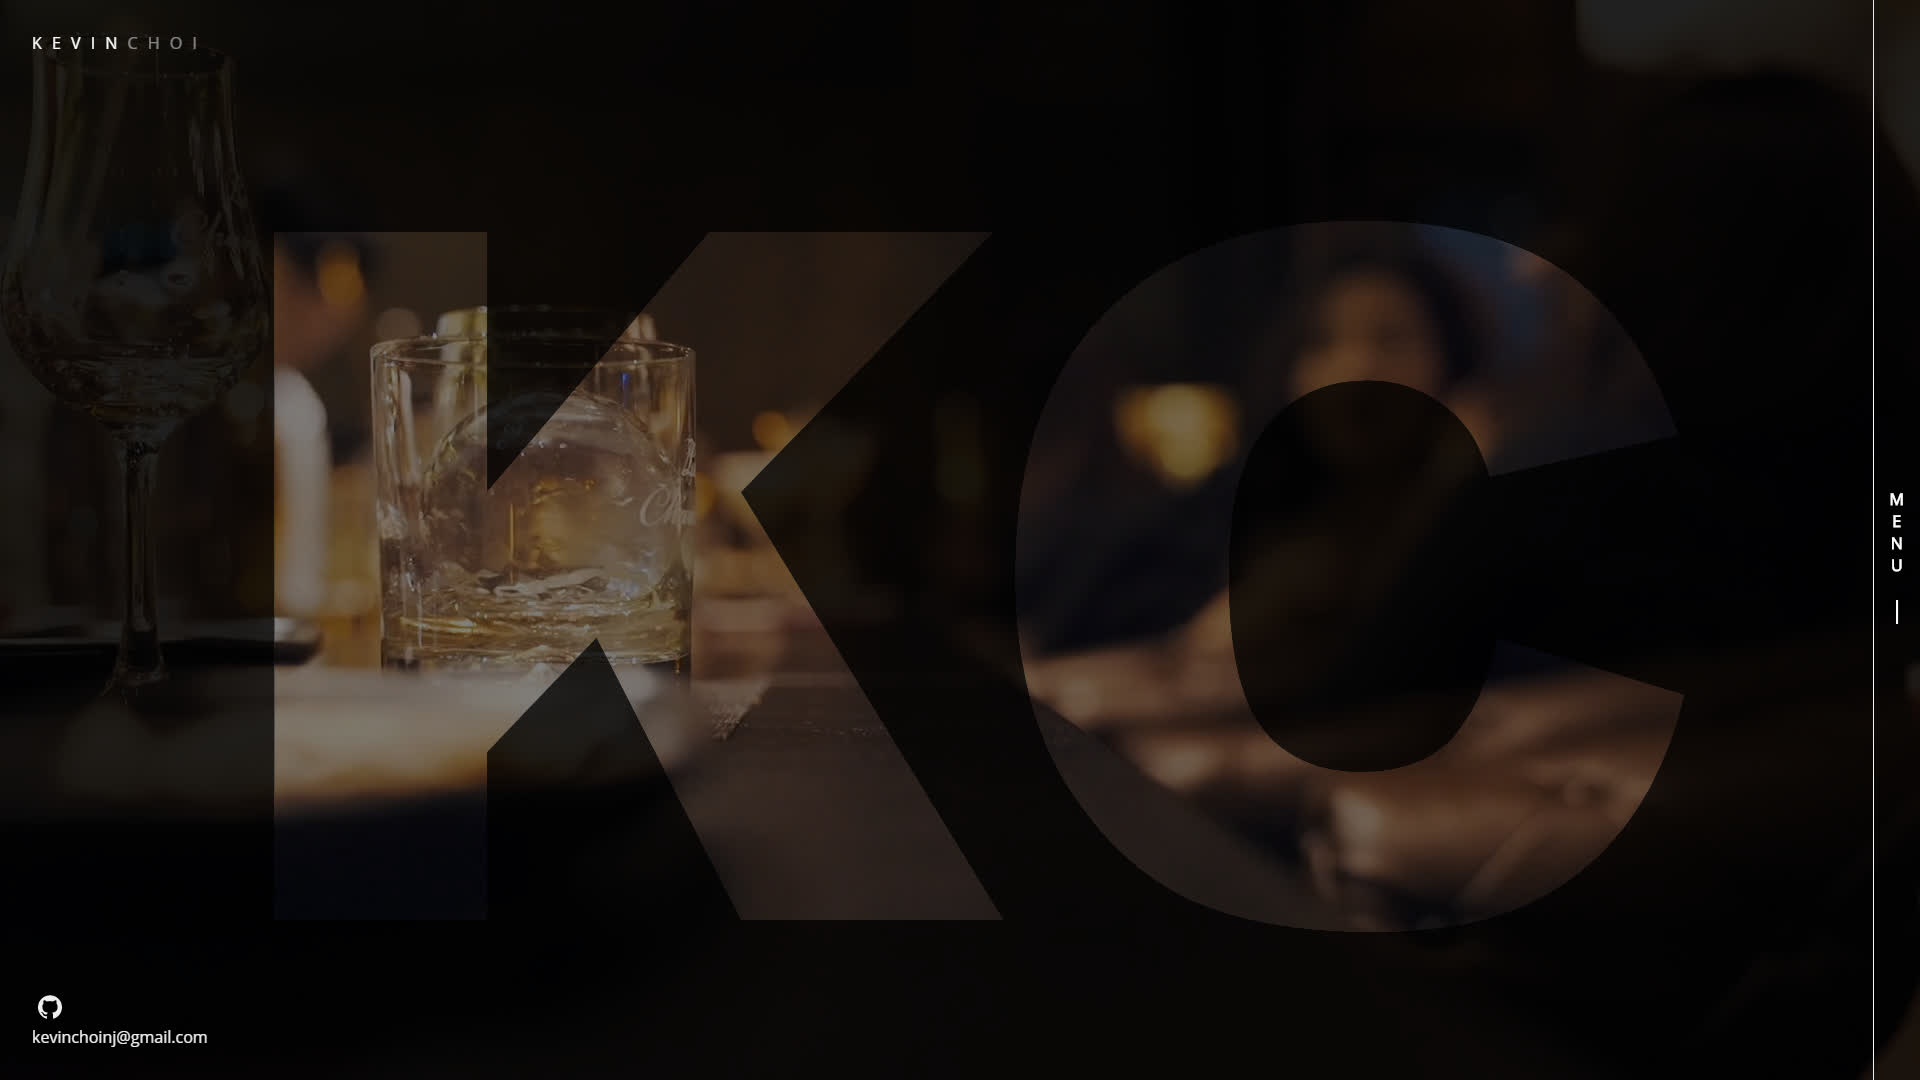
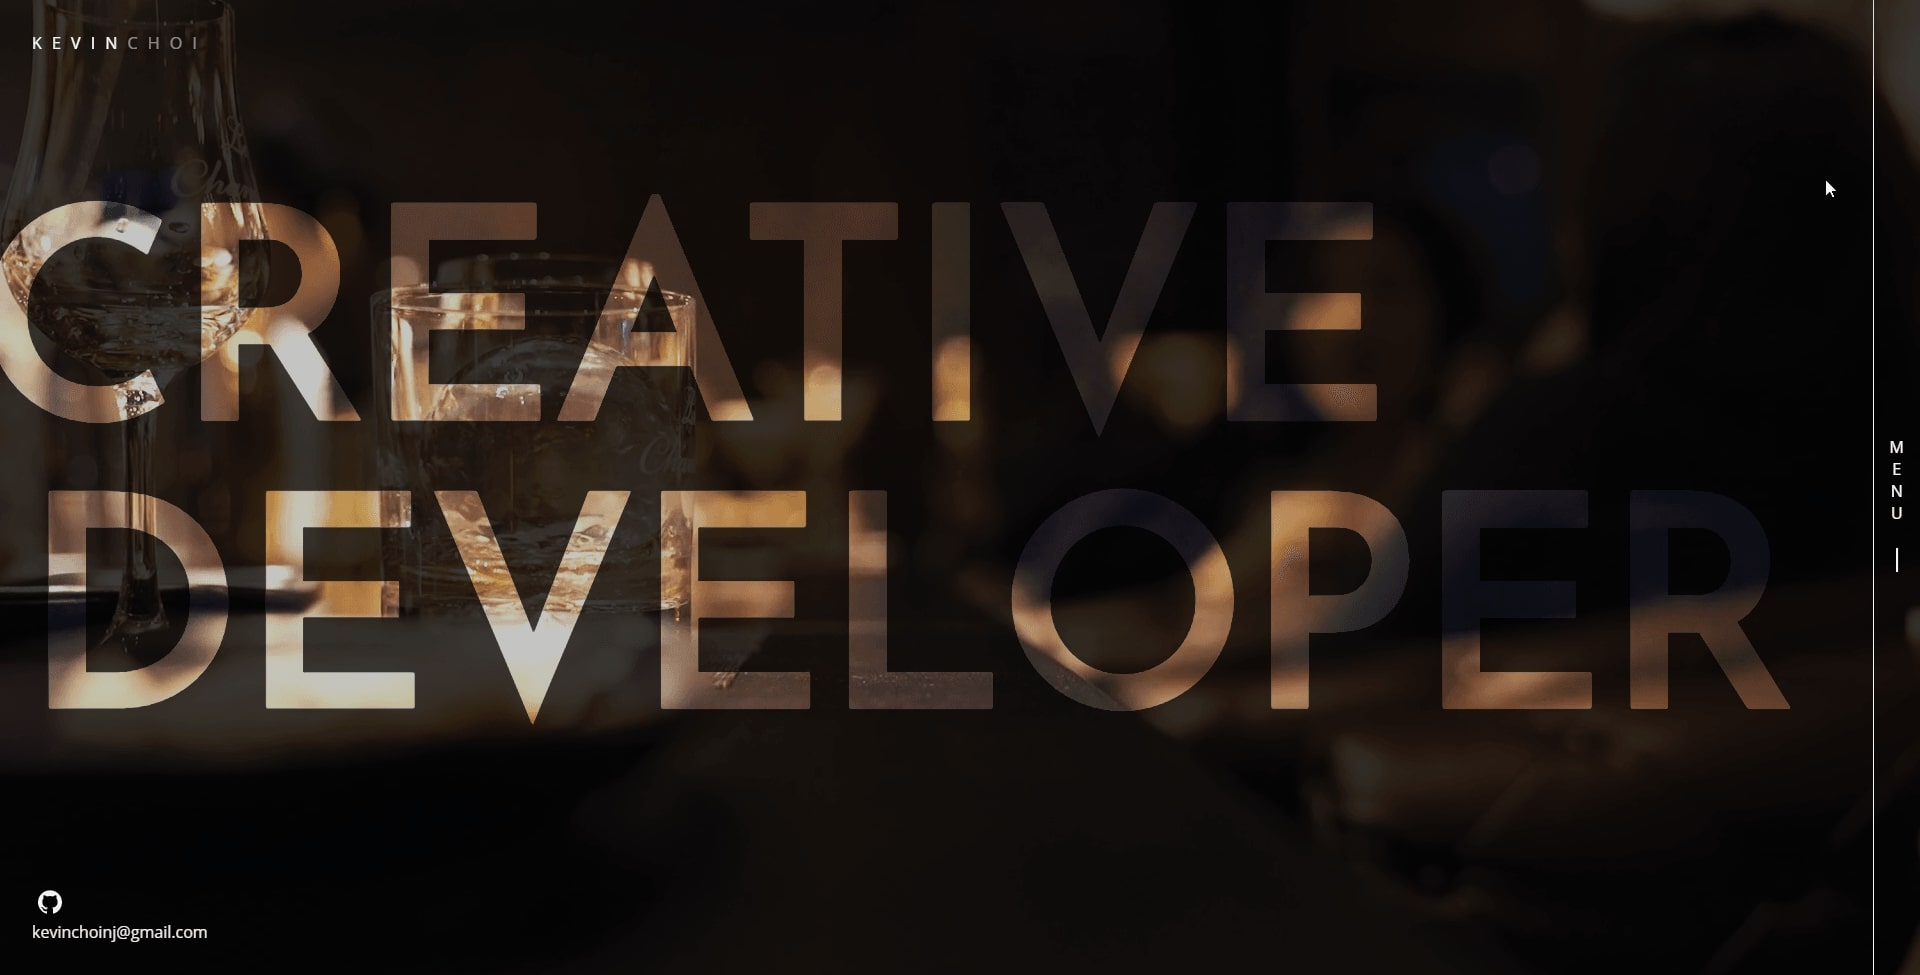
handle transitions between homepage and not-homepage

diff --git a/client/src/components/home/BackgroundMouse.js b/client/src/components/home/BackgroundMouse.js
@@ -2,20 +2,17 @@ import React, {useMemo} from 'react';
 import {connect} from 'react-redux';
 import styled from 'styled-components';
 import {
-  selectMenuDisplay,
-  selectMenuHover,
   selectCurrentMousePosition,
 } from 'reducers';
 
 const StyledWrapper = styled.div`
+  z-index: -1;
   width: 100%;
   height: 100%;
   overflow: hidden;
   position: fixed;
   left: 0px;
   transition: .2s ease;
-  pointer-events: ${props => props.menuDisplay ? 'none' : 'auto'};
-  opacity: ${props => (props.hoverOption && props.menuDisplay) ? 0 : 1};
   :after {
     content: '';
     position: fixed;
@@ -53,24 +50,6 @@ const StyledVideo = styled(Video)`
   background-size: cover;
   background-position: center center;
 `;
-/*
-const StyledText = styled.div`
-  display: flex;
-  justify-content: center;
-  align-items: center;
-  font-family: 'Open Sans', sans-serif !important;
-  font-weight: 800;
-  font-style: normal;
-  text-align: center;
-  font-size: 50vw;
-  content: 'KC';
-  height: 100%;
-  width: 100%;
-  background: rgba(0,0,0, .75);
-  color: #fff;
-  mix-blend-mode: darken;
-`;
-*/
 const StyledTextWrapper = styled.div`
   height: 100%;
   width: 100%;
@@ -84,18 +63,17 @@ const StyledTextWrapper = styled.div`
 const StyledText = styled.h1`
   font-size: 15vw;
   margin: 0 0 0 ${props => props.marginLeft};
+  @media screen and (max-width: 768px) {
+    margin: 0;
+  }
   color: #dadada;
   font-family: 'Josefin Sans';
 `;
-const Background = ({menuDisplay, hoverOption, mousePosition}) => {
-  const memoizedMovement = useMemo(() => mousePosition.xValue/100, [mousePosition])
+const Background = ({mousePosition}) => {
+  const memoizedMovement = useMemo(() => mousePosition.xValue/50, [mousePosition])
   return(
-    <StyledWrapper
-      hoverOption={hoverOption}
-      menuDisplay={menuDisplay}
-    >
+    <StyledWrapper>
       <StyledVideo
-        poster='/static/images/daytimelight.jpg'
         src='/static/images/daytime.mp4'
       />
       <StyledTextWrapper>
@@ -123,8 +101,6 @@ const Background = ({menuDisplay, hoverOption, mousePosition}) => {
 const mapStateToProps = (state) => {
   return {
     mousePosition: selectCurrentMousePosition(state),
-    menuDisplay: selectMenuDisplay(state),
-    hoverOption: selectMenuHover(state),
   };
 };
 

diff --git a/client/src/menu9/MenuText.js b/client/src/menu9/MenuText.js
@@ -1,7 +1,6 @@
 import React, {useCallback, useEffect, useState} from 'react';
 import {hoverMenuOption} from 'actions/menu';
 import {connect} from 'react-redux';
-import Scrollbar from 'smooth-scrollbar';
 import {Link} from 'react-router-dom';
 import {menuData} from 'data/menuData';
 import styled from 'styled-components';
@@ -130,54 +129,13 @@ const StyledWrapper = styled.div`
   overflow: auto;
   height: 100%;
   overflow-x: hidden;
-  .scroll-content {
-    cursor: ${props => props.isDown ? 'grabbing' : 'grab'}
-    display: flex;
-    flex-direction: column;
-  }
 `;
 const MenuText = ({menuDisplay, loadedContent, hoverOption}) => {
-  const [scrollbar, setScrollbar] = useState(false);
-
-  useEffect(() => {
-    const scrollbar = Scrollbar.init(document.querySelector('#menu_scrollbar'), {
-      alwaysShowTracks: false,
-    });
-    setScrollbar(scrollbar);
-  }, []);
-
-  const [isDown, setIsDown] = useState(false);
-  const [startY, setStartY] = useState(false);
-  const onMouseDown = (e) => {
-    e.preventDefault();
-    setIsDown(true);
-    setStartY(e.pageY);
-  };
-
-  const onMouseUp = () => {
-    setIsDown(false);
-  };
-
-  const onMouseMove = (e) => {
-    if (!isDown) {
-      return;  // stop the fn from running
-    }
-    e.preventDefault();
-    const y = e.pageY;
-    const walk = (y-startY) * 3;
-    scrollbar.scrollTo(0, scrollbar.scrollTop - walk, 600);
-  };
   const memoizedHover = useCallback(hoverOption, []);
 
   return(
     <StyledWrapper
       menuDisplay={menuDisplay}
-      id="menu_scrollbar"
-      onMouseDown={(e) => onMouseDown(e)}
-      onMouseUp={() => onMouseUp()}
-      onMouseLeave={() => onMouseUp()}
-      onMouseMove={(e) => onMouseMove(e)}
-      isDown={isDown}
     >
       {menuData.map((value) => (
         <StyledRow key={value.link}>

diff --git a/client/src/menu9/BackgroundImageWrapper.js b/client/src/menu9/BackgroundImageWrapper.js
@@ -1,7 +1,9 @@
-import React from 'react';
+import React, {useMemo} from 'react';
 import styled from 'styled-components';
 import {menuData} from 'data/menuData';
 import BackgroundImageDisplay from 'menu9/BackgroundImageDisplay';
+import {pageData} from 'data/pageData';
+import {withRouter} from 'react-router-dom';
 
 const StyledWrapper = styled.div`
   position: fixed;
@@ -13,10 +15,11 @@ const StyledWrapper = styled.div`
   z-index: 0;
 `;
 
-const BackgroundImageWrapper = () => {
+const BackgroundImageWrapper = ({location}) => {
+  const memoizedData = useMemo(() => location.pathname !== pageData.home ? menuData : menuData.slice(1), [location]);
   return(
     <StyledWrapper>
-       {menuData.map((value) => (
+       {memoizedData.map((value) => (
         <div key={value.link}>
           <BackgroundImageDisplay
             image={value.image}
@@ -28,4 +31,4 @@ const BackgroundImageWrapper = () => {
   );
 };
 
-export default React.memo(BackgroundImageWrapper);
+export default React.memo(withRouter(BackgroundImageWrapper));

diff --git a/client/src/routes/SiteRoutes.js b/client/src/routes/SiteRoutes.js
@@ -35,7 +35,8 @@ const SiteRoutes = ({skewValue, menuDisplay}) => {
       <BackgroundImageWrapper/>
       <GlobalStyle menuDisplay={menuDisplay}/>
       <Switch>
-        <Route exact path={pageData.home} render={props => <Home {...props}/>}/>
+
+      <Route exact path={pageData.home} render={props => <Home {...props}/>}/>
         <Route exact path={pageData.miscProjects} render={props => <ProjectMisc {...props} skewValue={skewValue}/>}/>
         {
           Object.keys(projectData).map((key) => {

diff --git a/client/src/menu9/ContactForm.js b/client/src/menu9/ContactForm.js
@@ -68,12 +68,12 @@ const ContactForm = ({onSubmit}) => {
       >
         {(values, isSubmitting) =>
           <Form>
-            <label for="email">
+            <label htmlFor="email">
               Email
               <Field name="email"/>
             </label>
 
-            <label for="email">
+            <label htmlFor="email">
               Message
               <Field
                 name="message"

diff --git a/client/src/App.css b/client/src/App.css
@@ -28,3 +28,26 @@ body{
     --size-spacing-large: 6rem;
   }
 }
+body * {
+  scrollbar-width: thin;
+  scrollbar-color:  #f1f1f1 #888;
+}
+/* width */
+::-webkit-scrollbar {
+  width: 10px;
+}
+
+/* Track */
+::-webkit-scrollbar-track {
+  background: #f1f1f1;
+}
+
+/* Handle */
+::-webkit-scrollbar-thumb {
+  background: #888;
+}
+
+/* Handle on hover */
+::-webkit-scrollbar-thumb:hover {
+  background: #555;
+}

diff --git a/client/src/menu9/MenuPanel.js b/client/src/menu9/MenuPanel.js
@@ -28,7 +28,6 @@ const StyledLeft = styled.div`
   left: -33vw;
   z-index: 3;
   -webkit-overflow-scrolling: touch;
-  will-change: transform;
   transform: ${props => props.menuDisplay ? 'translateX(33vw)' : 'translateX(0px)'};
   @media screen and (max-width: 1590px) {
     left: -50vw;

diff --git a/client/src/menu9/MenuButton.js b/client/src/menu9/MenuButton.js
@@ -114,7 +114,6 @@ const mapDispatchToProps = (dispatch) => {
   return {
     toggleMenu: (menuDisplay) => {
       dispatch(toggleMenu(!menuDisplay));
-      document.getElementById('menu_scrollbar').focus();
     }
   };
 };
